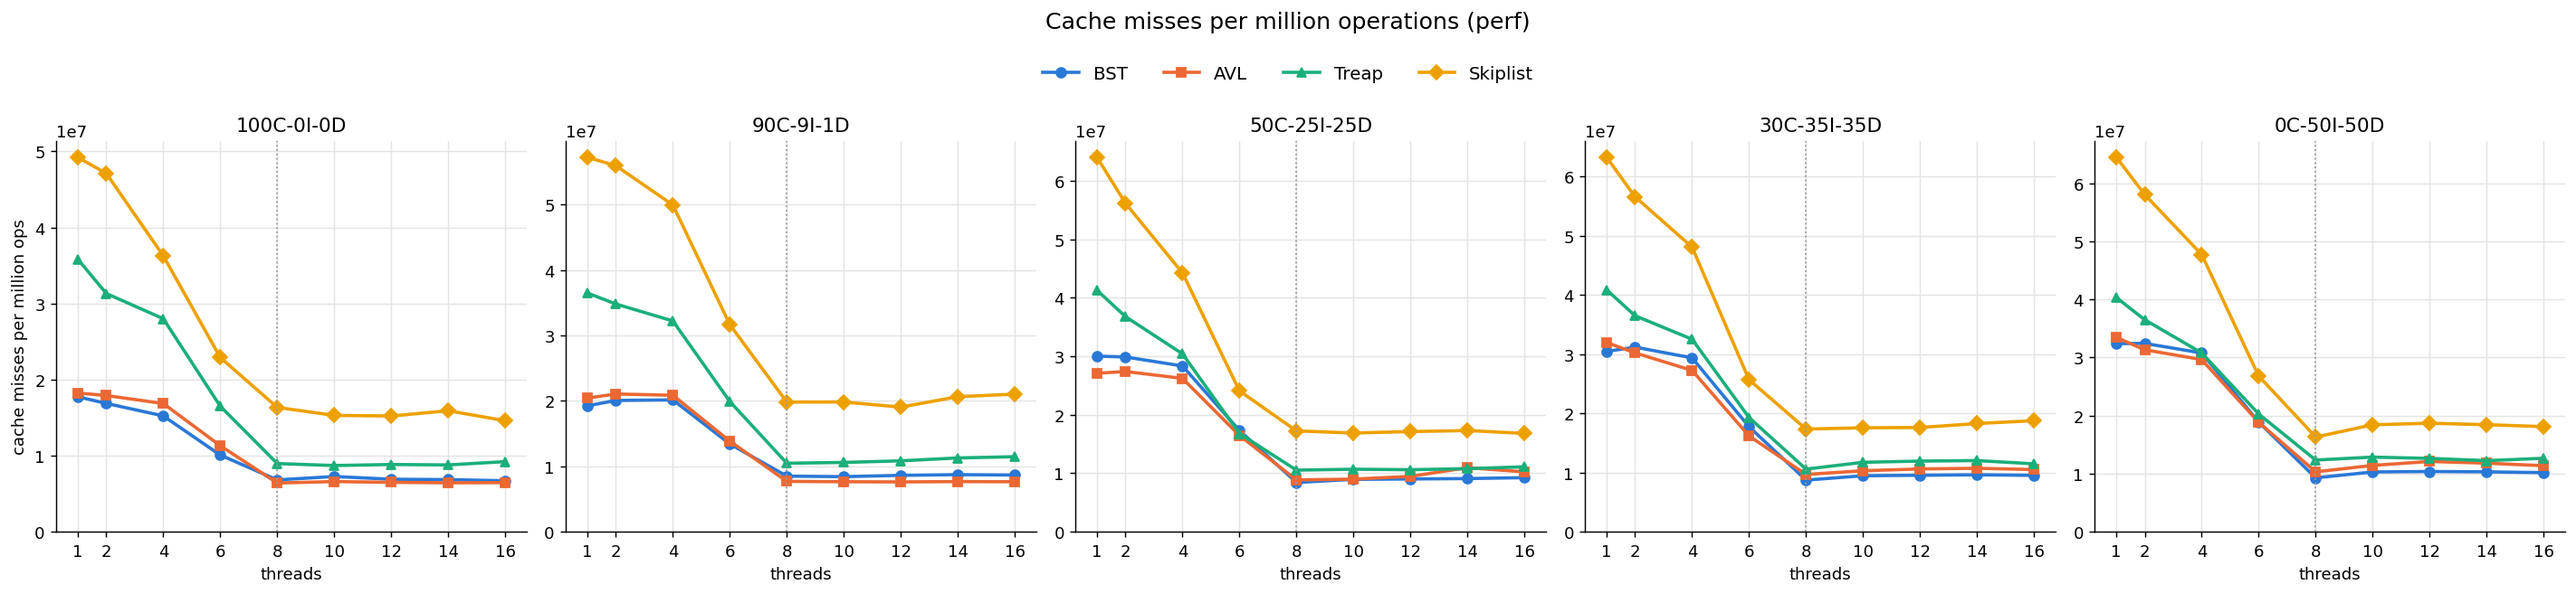
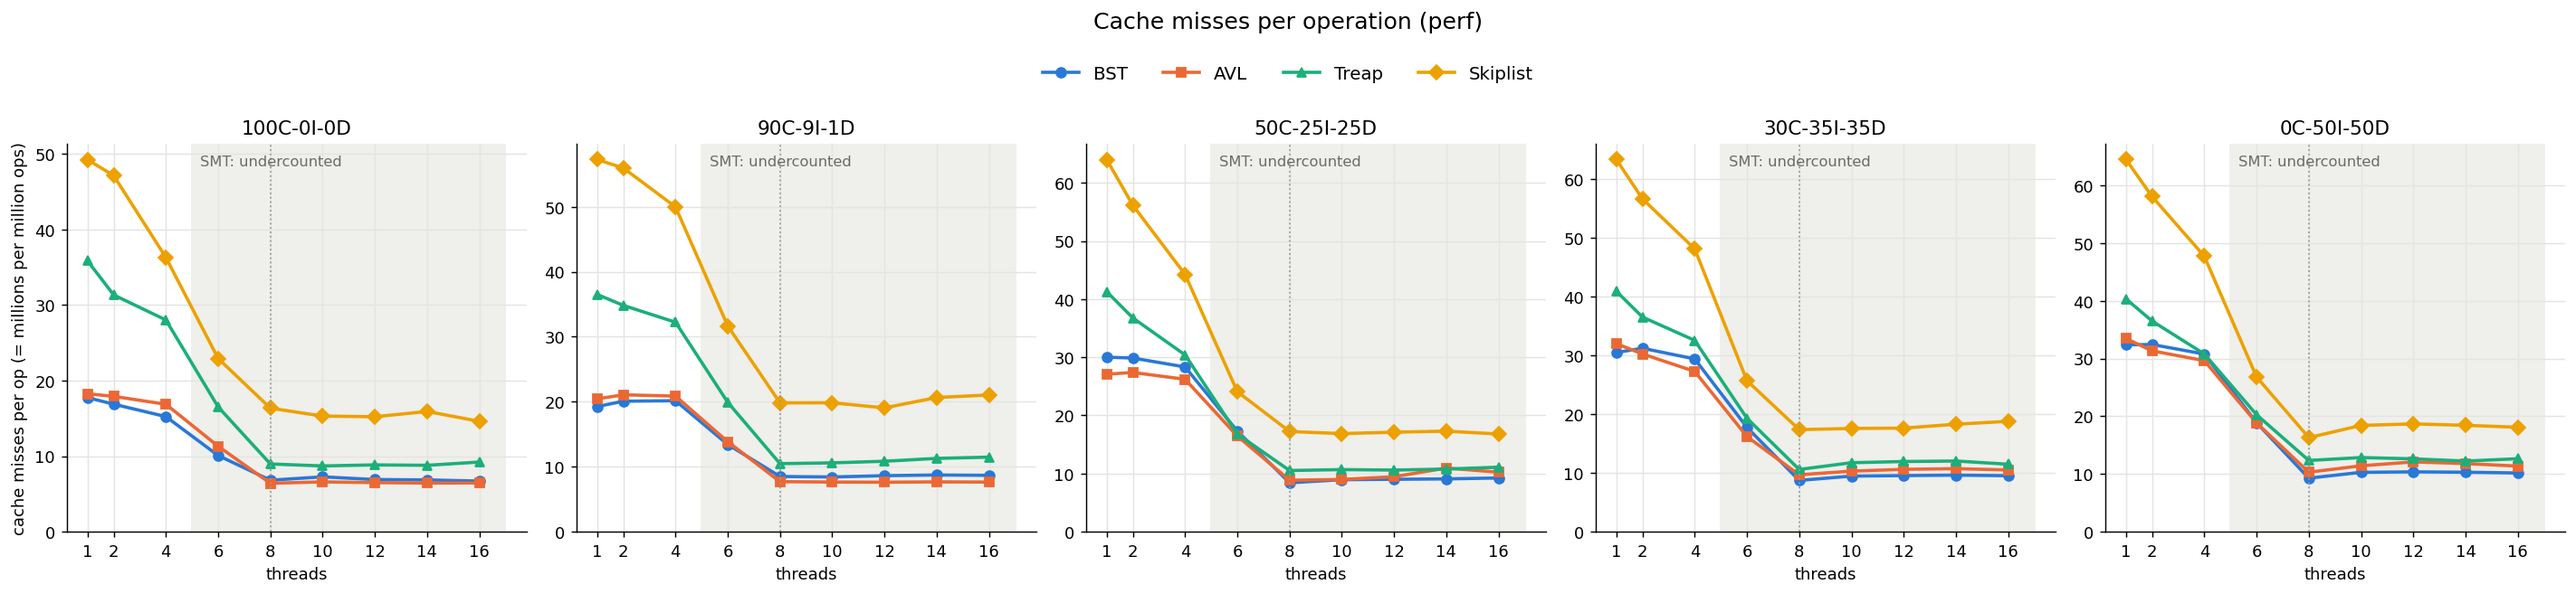
docs(canopy): reconcile throughput analysis with perf data
- rewrite avl paragraph: lead comes from fewer nodes visited and l2 misses, not l3 misses
- add untested allocation-order hypothesis for the treap's 2x misses
- plot cache misses per op and shade the smt-undercounted thread range

diff --git a/canopy/scripts/plot.py b/canopy/scripts/plot.py
@@ -33,7 +33,7 @@ def load(path, key_cols, val_col):
     return data
 
 
-def plot(data, ylabel, title, fname):
+def plot(data, ylabel, title, fname, shade_from=None):
     fig, axes = plt.subplots(1, 5, figsize=(22, 4.6), sharey=False)
     for ax, wl in zip(axes, WORKLOADS):
         for ds in DS:
@@ -51,6 +51,10 @@ def plot(data, ylabel, title, fname):
         for s in ("top", "right"):
             ax.spines[s].set_visible(False)
         ax.axvline(8, color="#9a9a96", linewidth=1, linestyle=":")  # hardware threads on the test machine
+        if shade_from:  # perf undercounts once hyperthreads share a core (README, measurement trap 5)
+            ax.axvspan(shade_from, 17, color="#efefec", zorder=0)
+            ax.text(shade_from + 0.3, 0.97, "SMT: undercounted", transform=ax.get_xaxis_transform(),
+                    fontsize=9, color="#6b6b67", va="top")
     axes[0].set_ylabel(ylabel)
     handles, labels = axes[0].get_legend_handles_labels()
     fig.legend(handles, labels, loc="upper center", ncol=4, frameon=False, fontsize=11, bbox_to_anchor=(0.5, 1.02))
@@ -79,7 +83,9 @@ if __name__ == "__main__":
         md.append("## Throughput (Mops/s, mean of 5 x 10 s runs)\n" + table(thr, "{:.2f}"))
     perf = load(RES / "perf_cache.csv", [0, 1, 2], 6)
     if perf:
-        plot(perf, "cache misses per million ops", "Cache misses per million operations (perf)", "cache_misses.png")
+        per_op = {k: v / 1e6 for k, v in perf.items()}
+        plot(per_op, "cache misses per op (= millions per million ops)", "Cache misses per operation (perf)",
+             "cache_misses.png", shade_from=5)
         md.append("## Cache misses per million operations\n" + table(perf, "{:,.0f}"))
     (RES / "tables.md").write_text("\n\n".join(md) + "\n")
     print(f"wrote {len(thr)} throughput points, {len(perf)} perf points")

diff --git a/canopy/README.md b/canopy/README.md
@@ -153,14 +153,14 @@ saturation point on this machine. The 10–16 thread points show robustness, not
 extra scalability.
 
 AVL is the fastest in every workload. On a read-heavy mix it beats the BST by
-about 2× at 1 thread and 1.2–1.4× at 8 threads. Height matters more than anything
-else here. Lookups dominate every workload, and each tree level is roughly one
-cache miss on a 1M-node structure that is far larger than L2/L3. The AVL stays at
-depth ≈ 1.44 log₂ n (22 in the stress test), while the random BST and the treap
-average ~2.9 ln n and reach depth ~47–49. The AVL pays for rotations only on
-updates, and the logical-ordering design keeps readers lock-free during those
-rotations. So balance is nearly free for readers and the shallower tree wins
-everywhere.
+about 2× at 1 thread and 1.2–1.4× at 8 threads. An AVL lookup visits fewer
+nodes: the tree stays close to log₂ n deep (bound 1.44 log₂ n; 22 for 521K keys in
+the stress test), while a random BST averages about 2 ln n ≈ 28 levels and reaches
+47. The perf section below shows where the saving lands. It is not in L3
+misses, since BST and AVL miss L3 about equally often. It is in fewer L2 misses
+and a shorter chain of dependent loads. The AVL pays for rotations only on
+updates, and the logical-ordering design keeps readers lock-free during them, so
+balance is nearly free for readers.
 
 The gap narrows as writes grow. At 0C-50I-50D, AVL (6.0) is only about 4%
 ahead of the BST (5.8). Every successful update in the AVL walks up to rebalance,
@@ -170,7 +170,8 @@ threads are traversing. With uniform random keys the unbalanced BST is already
 
 The treap is the slowest tree. With uniform keys a treap has the same expected
 shape as the random BST, but it pays for priorities: rotate-up on every insert and
-rotate-down on every remove. It reaches 0.74–0.96× the BST's throughput. Its benefit
+rotate-down on every remove. It reaches 0.74–0.96× the BST's throughput, and perf
+shows it also misses L3 about twice as often (see the perf section). Its benefit
 (balance independent of insertion order) does not show with uniform random keys.
 It would show with sorted or skewed inserts, where the plain BST degenerates.
 
@@ -236,7 +237,17 @@ The treap misses about twice as often as the BST on read-heavy mixes (35.8 vs
 all three trees share one node type, so node size is not the cause. This matches
 its position as the slowest tree in the throughput results. Its extra misses
 shrink as the update share grows (40.3 vs 32.4 at 0C-50I-50D), because then all
-the trees pay for allocation. The cause was not isolated further.
+the trees pay for allocation. The cause was not measured. One explanation fits
+both this and the BST/AVL tie, but it is an untested hypothesis: allocation
+order. A BST is never rotated, so every node's ancestors were inserted before it.
+The upper levels are therefore the earliest allocations, which sit close together
+in memory where the TLB and hardware prefetchers serve them well. The AVL keeps
+most of that layout, because its rotations happen mostly near the leaves. A
+treap's shape is set by random priorities: the root is whichever node drew the
+highest priority, whenever it was inserted. So every level of a treap is spread
+across the whole node heap. To test it, prefill the BST in a shuffled allocation
+order (allocate all nodes, shuffle them, then link them) and see whether its
+misses rise to the treap's level.
 
 The skiplist touches the most memory, as expected: 2.5 to 3 times the BST's
 misses per op at 1 thread, and about 2 times the references. A search visits
